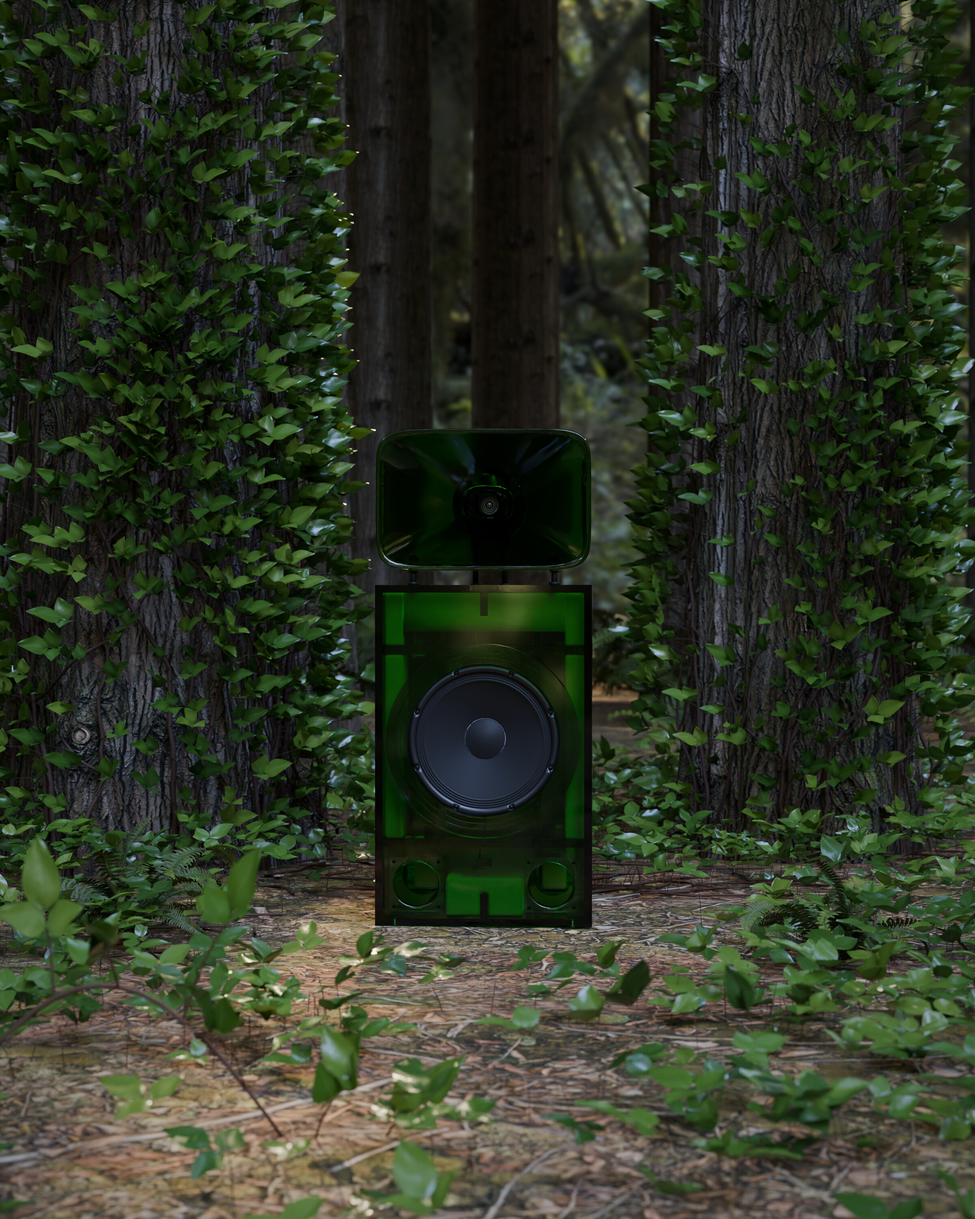
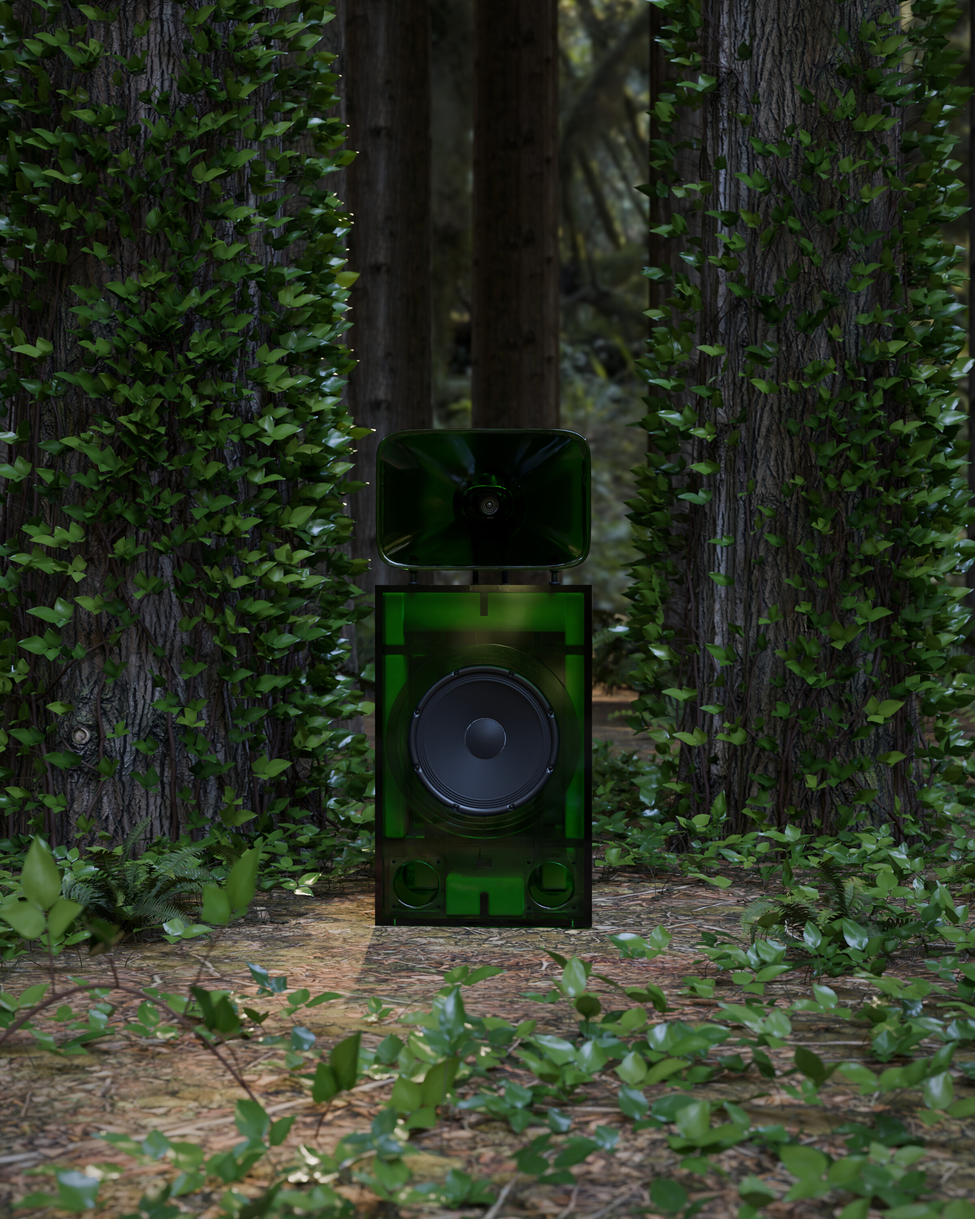
biomes: Poison final pair re-rendered without the wire
Same names, same camera and light. The ground cover's runners are now curved,
4-8 mm, brown-green and bedded in the litter; petioles 2-9 cm and arched to
their leaflets. gt_audit and scatter CLEAN in both frames; build matches the
manifest.

Claude-Session: https://claude.ai/code/session_01BAaPTnGwdpP4WKGVD3vbqx

Changed region(s): [[0.0, 0.589, 1.0, 1.0]]

diff --git a/renders/2026-11-11/barkhorn/habitats/CHECK.md b/renders/2026-11-11/barkhorn/habitats/CHECK.md
@@ -8,7 +8,7 @@ against the asset's manifest before render.
 |---|---|---|---|---|---|---|
 | Ice | ice-final-portrait-2400x3000.jpg, ice-final-wide-3200x2000.jpg | kiara_9_dusk (Poly Haven), strength 1.0 | sky only + the cabin's practical bulb (POINT 2500 W, warm) and its lit room | no hidden object, no area lamp (both frames) | Ice matches (113 parts, 39 materials) | the speaker's front reads flat in the blue dusk; the feet are sunk in snow and barely read |
 | Fog | fog-final-portrait-2400x3000.jpg, fog-final-wide-3200x2000.jpg | syferfontein_6d_clear_puresky (Poly Haven), strength 1.0, low morning sun | the sun (SUN 3.0, #FDD250-ish) and the sky; no emitters | no hidden object, no area lamp (both frames) | Fog matches (113 parts, 39 materials) | the far ridge left of the fog bank in the wide reads as CG terrain; the grass hides base A |
-| Poison | poison-final-portrait-2400x3000.jpg, poison-final-wide-3200x2000.jpg (rendered 2026-11-12, option C: the proxy's camera, the lateral leaflets set at 75-90 degrees and 0.60-0.72 of the end leaflet) | mossy_forest (Poly Haven), strength 1.0, rotated 189.1 so its bright patch sits at the sun; a canopy out of frame on the sun's side with a gap over the speaker | the sun (SUN 3.0, warm, az -165, el 43.3) and the sky; no emitters, no reflector | no hidden object, no area lamp (both frames); scatter CLEAN | Poison matches (113 parts, 39 materials) | the horn still reads dark against the trunk behind it (option A, a moved camera, was tried once and did not light it); the near spray on the right is soft in the depth of field, its threes plain only on the left |
+| Poison | poison-final-portrait-2400x3000.jpg, poison-final-wide-3200x2000.jpg (rendered 2026-11-12, option C: the proxy's camera, the lateral leaflets set at 75-90 degrees and 0.60-0.72 of the end leaflet; re-rendered at 08:47 with the ground cover's runners curved, 4-8 mm, brown-green and bedded in the litter, and its petioles 2-9 cm and arched to the leaflets, after the coordinator saw runners as crossing wire) | mossy_forest (Poly Haven), strength 1.0, rotated 189.1 so its bright patch sits at the sun; a canopy out of frame on the sun's side with a gap over the speaker | the sun (SUN 3.0, warm, az -165, el 43.3) and the sky; no emitters, no reflector | no hidden object, no area lamp (both frames); scatter CLEAN | Poison matches (113 parts, 39 materials) | the horn still reads dark against the trunk behind it (option A, a moved camera, was tried once and did not light it); the near spray on the right is soft in the depth of field, its threes plain only on the left |
 
 ## Proxies (800x1000, 16 samples) and the scatter column (the coordinator, 2026-11-11)
 
